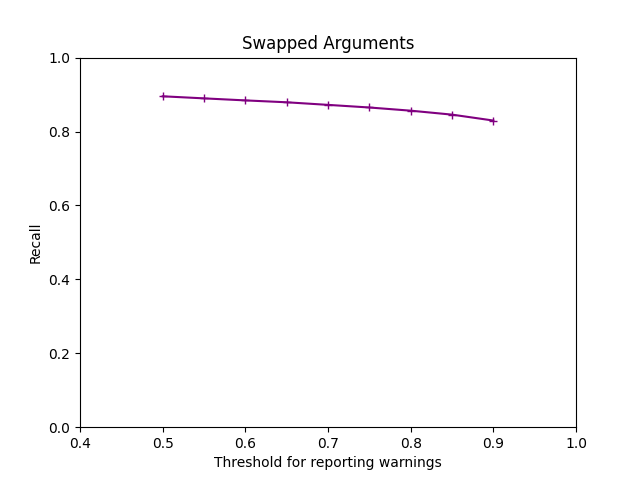
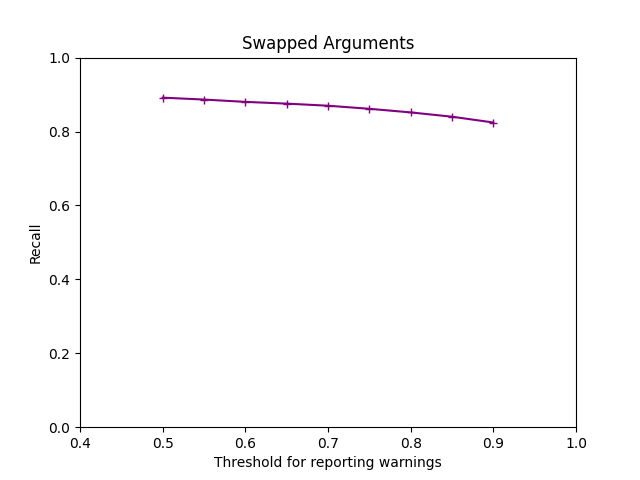
feat: stuff

Changed region(s): [[0.25, 0.1875, 0.7812, 0.2812]]

diff --git a/replication_scripts/BugLearnAndValidate.py b/replication_scripts/BugLearnAndValidate.py
@@ -55,11 +55,6 @@ parser.add_argument(
 Anomaly = namedtuple("Anomaly", ["message", "score"])
 
 
-# Z
-with open("outputs/training_prediction_time.txt", "a") as file:
-    file.write(f"\n# New run at: {time.ctime()}\n")
-
-
 def prepare_xy_pairs(gen_negatives, data_paths, learning_data):
     time_extracting_pairs_start = time.time() # Z: For timing how long it took to extract xy pairs
     xs = []
@@ -138,6 +133,10 @@ if __name__ == '__main__':
     # elif pattern == "MissingArg":
     ##    learning_data = LearningDataMissingArg.LearningData()
 
+    # Z
+    with open("outputs/training_prediction_time.txt", "a") as file:
+        file.write(f"\n# New run at: {time.ctime()}\n\nTraining:\n")
+
     print("Statistics on training data:")
     learning_data.pre_scan(training_data_paths, validation_data_paths)
 
@@ -177,7 +176,7 @@ if __name__ == '__main__':
     time_learning = round(time_learning_done - time_start)
     print("Time for learning (seconds):", time_learning)
     with open("outputs/training_prediction_time.txt", "a") as file:
-        file.write(f"- Learning: {time_learning//60}:{time_learning%60:02d}\n")
+        file.write(f"- Learning: {time_learning//60}:{time_learning%60:02d}\nValidation:\n")
 
     # prepare validation data
     print("Preparing xy pairs for validation data:")
@@ -251,8 +250,12 @@ if __name__ == '__main__':
     f_inspect.close()
 
     time_prediction_done = time.time()
-    print("Time for prediction (seconds): " +
-          str(round(time_prediction_done - time_learning_done)))
+
+    # Z
+    time_prediction = round(time_prediction_done - time_learning_done)
+    print("Time for prediction (seconds):", time_prediction)
+    with open("outputs/training_prediction_time.txt", "a") as file:
+        file.write(f"- Prediction: {time_prediction//60}:{time_prediction%60:02d}\n\n")
 
     print()
 

diff --git a/replication_scripts/graph_recall.py b/replication_scripts/graph_recall.py
@@ -1,14 +1,22 @@
+import csv
 import matplotlib.pyplot as plt
 
+
 # Use your data for recall (from thresholds 0.5 to 0.9)
-recall_learned_embedding = [0.8953, 0.8897, 0.8842, 0.8791, 0.8721, 0.865 , 0.8564, 0.8457, 0.8297]
-recall_random_embedding = []
+# recall_learned_embedding = [0.8953, 0.8897, 0.8842, 0.8791, 0.8721, 0.865 , 0.8564, 0.8457, 0.8297] # Data from our 2nd last run
+# recall_random_embedding = []
+recall_learned_embedding = []
+ts = [] # Threshold values. For example: [0.5, 0.55, 0.6, 0.65, 0.7, 0.75, 0.8, 0.85, 0.9]
 
-# Threshold values
-t = [0.5, 0.55, 0.6, 0.65, 0.7, 0.75, 0.8, 0.85, 0.9]
+with open("outputs/threshold_recalls.csv", "r") as csvfile:
+	data = csv.reader(csvfile)
+	next(data) # Skip headings
+	for t, recall in data:
+		recall_learned_embedding.append(float(recall))
+		ts.append(float(t))
 
-plt.plot(t, recall_learned_embedding, color="purple", marker="+")
-# plt.plot(t, recall_random_embedding, color="lightgreen", marker="x")
+plt.plot(ts, recall_learned_embedding, color="purple", marker="+")
+# plt.plot(ts, recall_random_embedding, color="lightgreen", marker="x")
 
 plt.xlim(0.4, 1)
 plt.ylim(0, 1)
